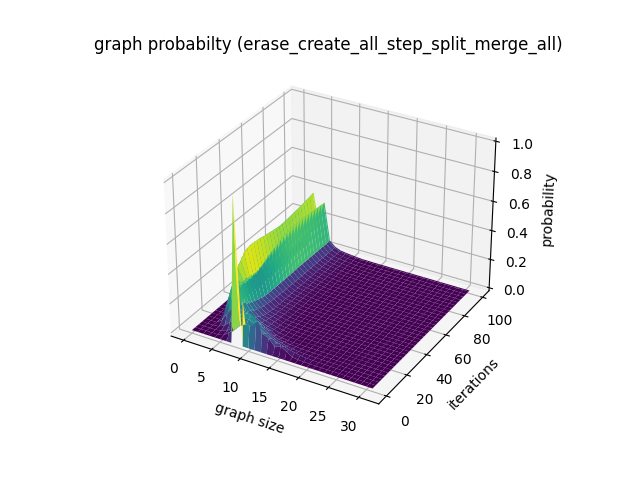
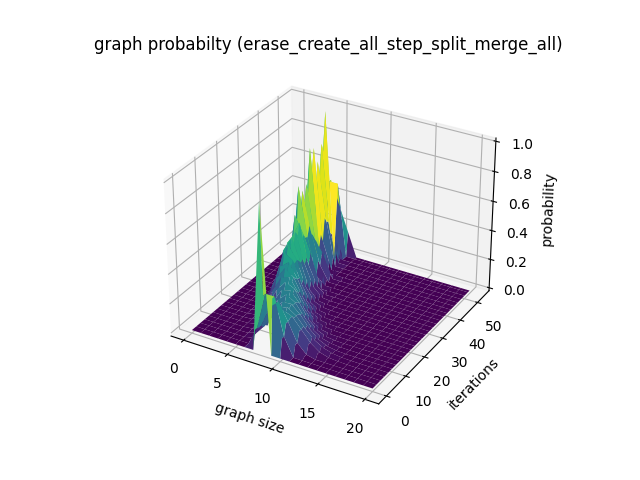
changed the grapher

diff --git a/v5/grapher/quantum_grapher.py b/v5/grapher/quantum_grapher.py
@@ -10,25 +10,38 @@ with open('res.json') as f:
 n_iterations = len(data["iterations"])
 n_max = max([len(it["nums"]) for it in data["iterations"]])
 
-sizes = np.arange(0, n_max)
-iterations = np.arange(0, n_iterations)
+# lists
 
-iterations, sizes = np.meshgrid(sizes, iterations)
+sizes_list = np.arange(0, n_max)
+iterations_list = np.arange(0, n_iterations)
+
+iterations, sizes = np.meshgrid(sizes_list, iterations_list)
 
 total_proba = np.zeros(n_iterations)
 total_num = np.zeros(n_iterations)
+avg_size = np.zeros(n_iterations)
+std_dev_size = np.zeros(n_iterations)
 
 nums = np.zeros((n_iterations, n_max))
 probas = np.zeros((n_iterations, n_max))
 
+# compute values
+
 for i in range(n_iterations):
+	# compute proba
 	probas_ = data["iterations"][i]["probas"]
 	total_proba[i] = sum(probas_)
 	probas_ /= total_proba[i]
 
+	# compute nums
 	nums_ = data["iterations"][i]["nums"]
 	total_num[i] = sum(nums_)
 	nums_ /= total_num[i]
+
+	#compute sizes
+	sizes_ = np.arange(0, len(nums_))
+	avg_size[i] = sum(probas_ * sizes_)
+	std_dev_size[i] = np.sqrt(abs(avg_size[i] * avg_size[i] - sum(probas_ * sizes_ * sizes_)))
 
 	for j in range(len(nums_)):
 		nums[i, j] = nums_[j]
@@ -73,7 +86,7 @@ fig.savefig(f'plots/proportions/n_{ data["rule"] }_{ data["initial state"]["size
 fig = plt.figure()
 ax = plt.axes()
 ax.set_xlabel('iterations')
-ax.set_title(f'graph probabilty ({ data["rule"] })')
+ax.set_title(f'total probabilty and number of graph ({ data["rule"] })')
 
 color = 'tab:blue'
 color2 = 'tab:red'
@@ -90,3 +103,16 @@ ax2.set_ylabel("total number of graphs", color=color2)
 ax2.tick_params(axis='y', labelcolor=color2)
 
 fig.savefig(f'plots/stats/s_{ data["rule"] }_{ data["initial state"]["size"] }.png')
+
+
+#graph sizes
+
+fig = plt.figure()
+ax = plt.axes()
+ax.set_xlabel('iterations')
+ax.set_ylabel('sizes')
+ax.set_title(f'graph average size ({ data["rule"] })')
+ax.errorbar(iterations_list, avg_size, std_dev_size,
+						capsize=2, elinewidth=1, markeredgewidth=2)
+
+fig.savefig(f'plots/sizes/as_{ data["rule"] }_{ data["initial state"]["size"] }.png')

diff --git a/v5/grapher/quantum_iteration.cpp b/v5/grapher/quantum_iteration.cpp
@@ -39,6 +39,14 @@
     #define PHI M_PI_2
 #endif
 
+#ifndef TETA2
+    #define TETA2 TETA
+#endif
+
+#ifndef PHI2
+    #define PHI2 PHI
+#endif
+
 int main() {
     //graph_t* g_1 = new graph({true, false, false, true, false},  {true, false, true, false, true});
     
@@ -48,6 +56,7 @@ int main() {
     state_t* s = new state(g_1);
     s->tolerance = TOLERANCE;
     auto [non_merge, merge] = unitary(TETA, PHI);
+    auto [non_create, create] = unitary(TETA2, PHI2);
 
     std::function<tbb::concurrent_vector<std::pair<std::shared_ptr<graph_t>, std::complex<long double>>>(std::shared_ptr<graph_t> g)> rule;
     std::function<tbb::concurrent_vector<std::pair<std::shared_ptr<graph_t>, std::complex<long double>>>(std::shared_ptr<graph_t> g)> rule2;
@@ -65,11 +74,17 @@ int main() {
         return -1;
 
     rule_ = RULE2;
-    if (rule_ == "split_merge_all") {
-        rule2 = split_merge_all(non_merge, merge);
+    if (rule_ == "step_split_merge_all") {
+        rule = step_split_merge_all(non_create, create);
+        rule_ += "_";
+    } else if (rule_ == "step_erase_create_all") {
+        rule = step_erase_create_all(non_create, create);
+        rule_ += "_";
+    } else if (rule_ == "split_merge_all") {
+        rule2 = split_merge_all(non_create, create);
         rule_ += "_";
     } if (rule_ == "erase_create_all") {
-        rule2 = erase_create_all(non_merge, merge);
+        rule2 = erase_create_all(non_create, create);
         rule_ += "_";
     } else
         rule2 = rule;
